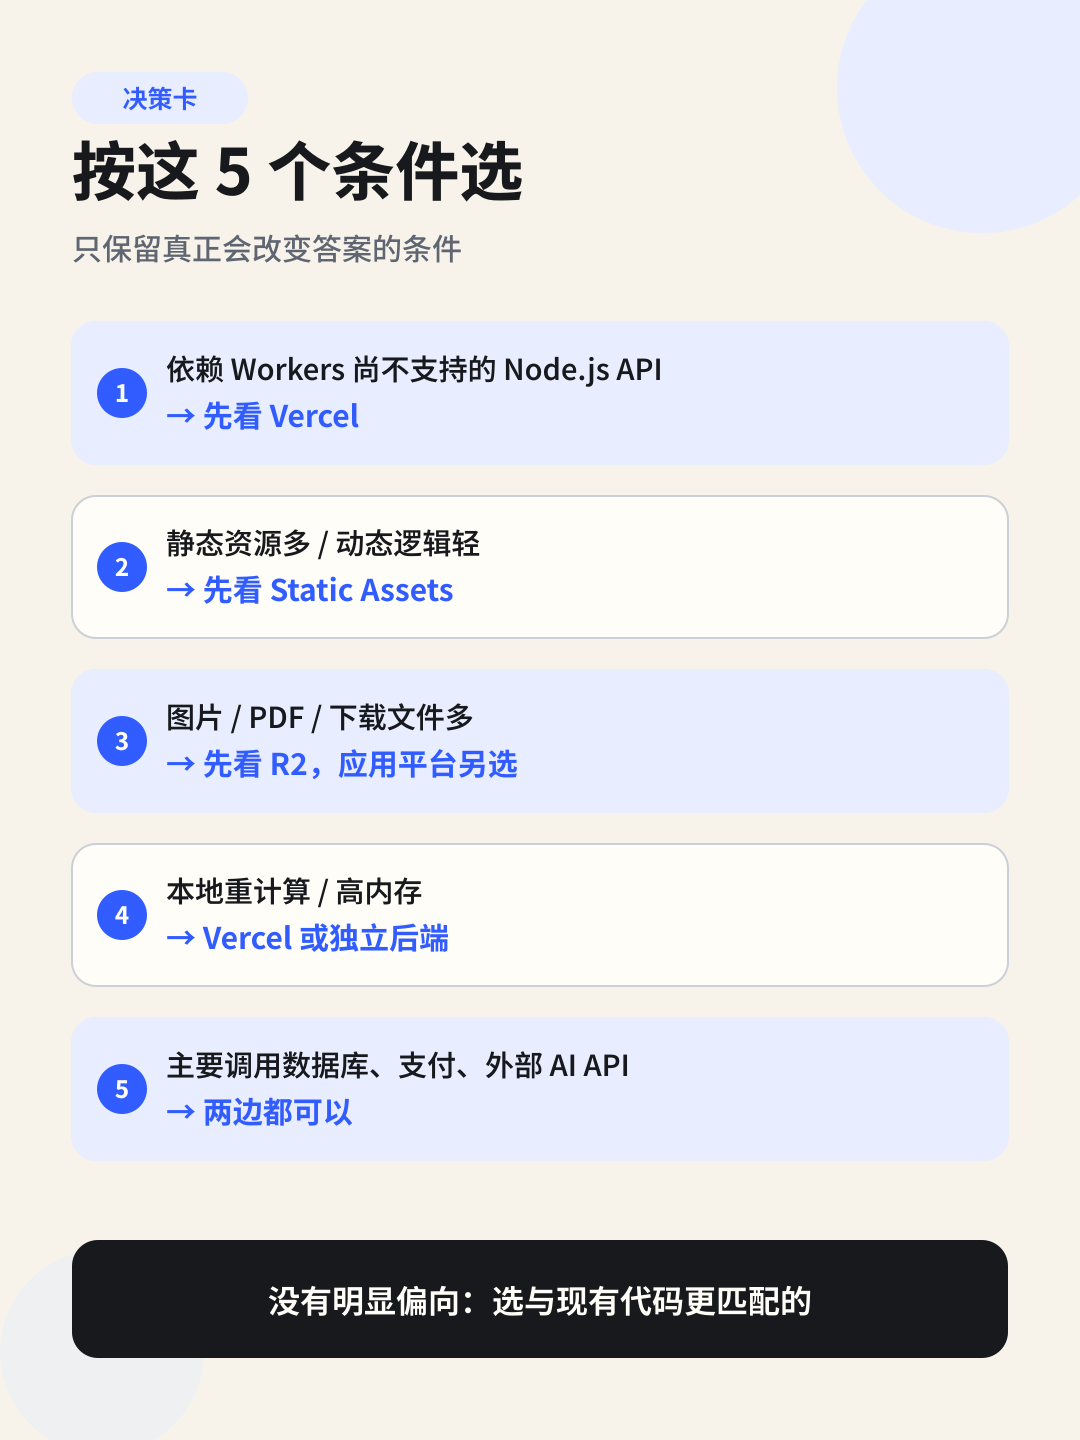
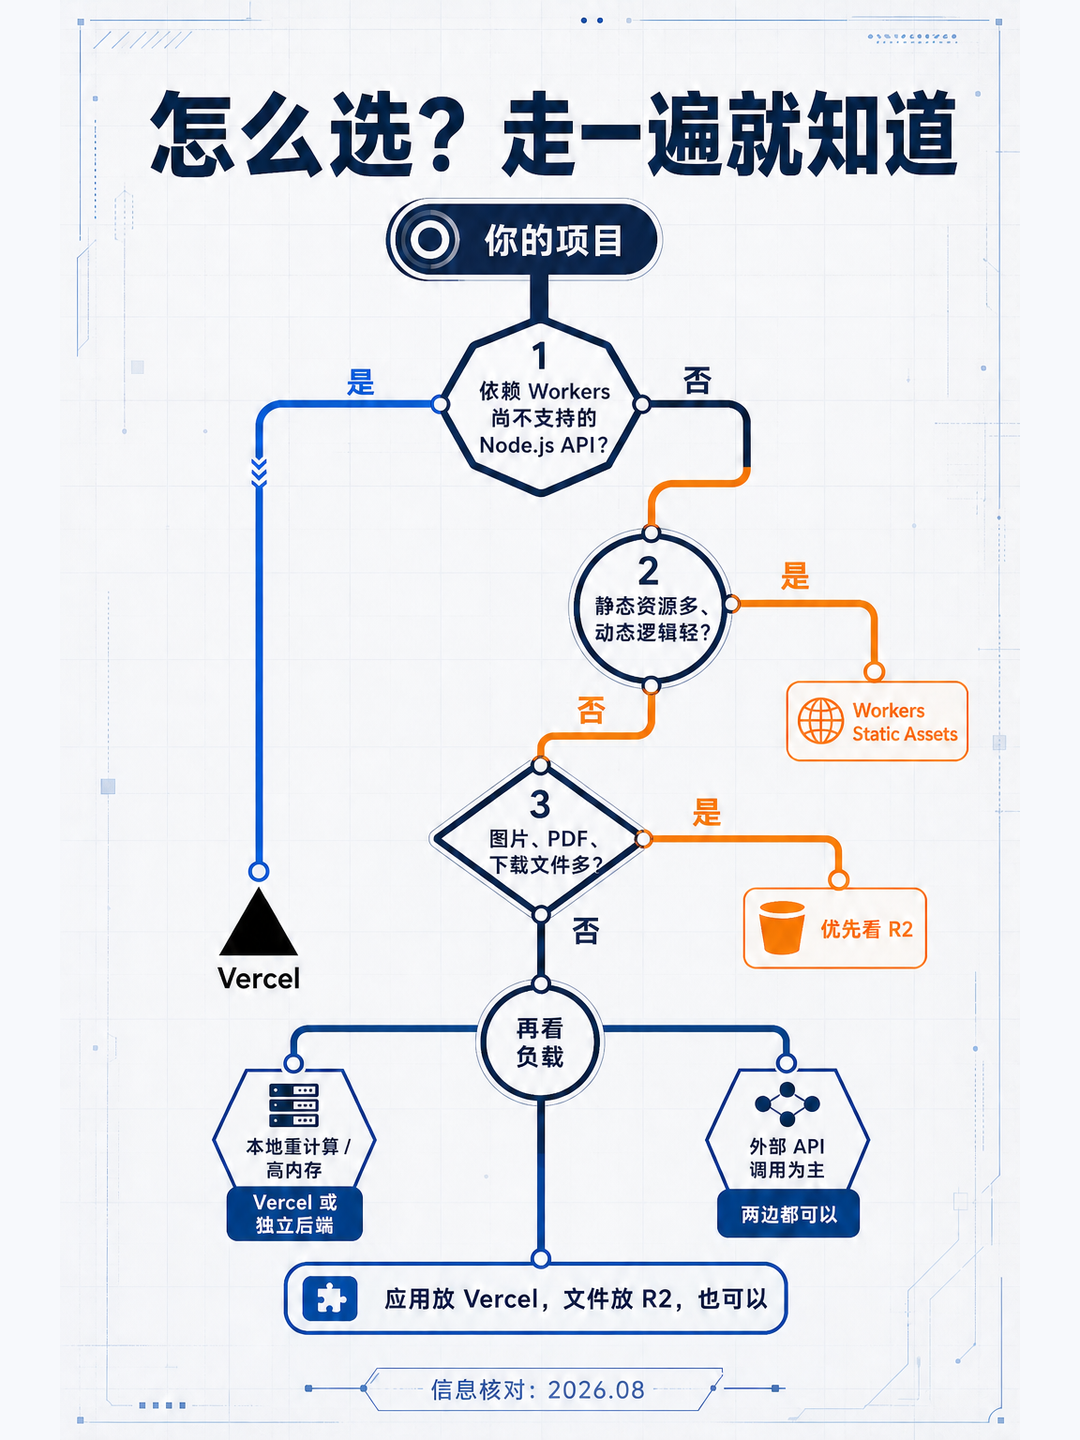
content: 重做平台选型小红书卡片

diff --git a/topics/20260812-vercel-vs-cloudflare/image-post/image-plan.md b/topics/20260812-vercel-vs-cloudflare/image-post/image-plan.md
@@ -5,15 +5,15 @@
 - 平台：小红书
 - 数量：2 张
 - 尺寸：1080×1440，3:4
-- 类型：确定性排版的信息概要卡
-- 视觉：暖纸白底、墨黑正文、工具与工作流蓝色强调；少装饰，不使用 Logo、作者名、页码和口号。
+- 类型：图片模型整张生成的编辑式信息图
+- 视觉：冷白与浅冷灰底，深海军蓝、钴蓝、黑灰为主，Cloudflare 使用少量橙色识别；避免暖黄色、PPT 卡片感和常见 AI 信息卡模板。
 - 事实口径：2026-08-12；卡片不放容易过时的价格数字，正文保留核对日期。
 
 ## 第 1 张：关键差异
 
 ### 作用
 
-让读者在一张图内理解两家的关键倾向。
+让读者在一张图内理解两家的关键倾向。采用分屏对照、中轴信号路径和品牌符号构成，信息量高于第二张。
 
 ### 文案
 
@@ -21,7 +21,7 @@
 
 ```text
 Vercel 还是 Cloudflare？
-先看项目需要什么
+看项目，不看站队
 ```
 
 Vercel：
@@ -46,10 +46,13 @@ R2 免互联网出口流量费
 静态资源多 / 动态逻辑轻 / 文件流量 / 多站
 ```
 
-底部：
+共同点与底部：
 
 ```text
-两家都能上站，项目条件决定选择
+轻后端、外部 API 调用，两边都能做
+应用放 Vercel，文件放 R2，也可以
+看项目，不看站队
+信息核对：2026.08
 ```
 
 ### 证据
@@ -57,41 +60,42 @@ R2 免互联网出口流量费
 - Vercel Node.js Runtime、Functions Limits
 - Cloudflare Workers Static Assets、R2 Pricing
 
-## 第 2 张：决策卡
+## 第 2 张：决策路线图
 
 ### 作用
 
-把公众号中的场景判断压缩为可直接保存的选择表。
+把公众号中的判断条件改造成一条从上到下的分岔路线，节点依次检查运行环境、静态/动态结构、文件量和计算负载。
 
 ### 文案
 
 标题：
 
 ```text
-按这 5 个条件选
+怎么选？走一遍就知道
 ```
 
 ```text
-依赖 Workers 不支持的 Node.js API
-→ 先看 Vercel
+依赖 Workers 尚不支持的 Node.js API？
+是 → Vercel
 
-静态资源多 / 动态逻辑轻
-→ 先看 Workers Static Assets
+静态资源多、动态逻辑轻？
+是 → Workers Static Assets
 
-图片 / PDF / 下载文件多
-→ 先看 R2，应用平台另选
+图片、PDF、下载文件多？
+是 → 优先看 R2
 
 本地重计算 / 高内存
 → Vercel 或独立后端
 
-主要调用数据库、支付、外部 AI API
+外部 API 调用为主
 → 两边都可以
 ```
 
 底部：
 
 ```text
-没有明显偏向：选与现有代码更匹配的
+应用放 Vercel，文件放 R2，也可以
+信息核对：2026.08
 ```
 
 ### 证据
